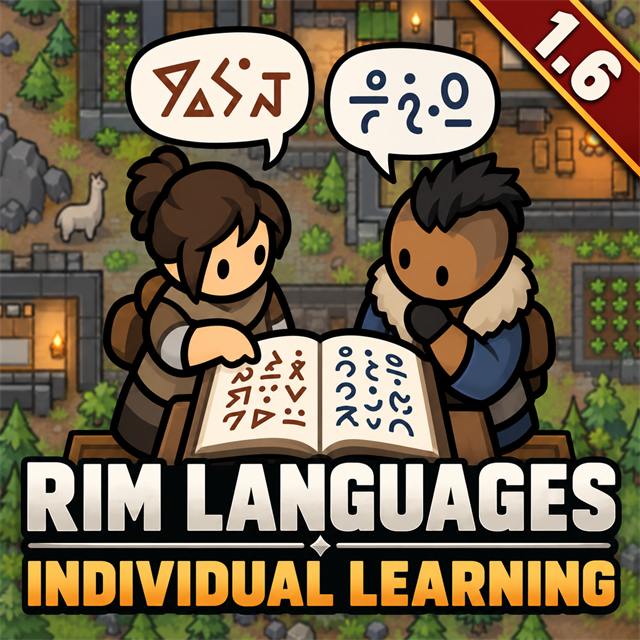
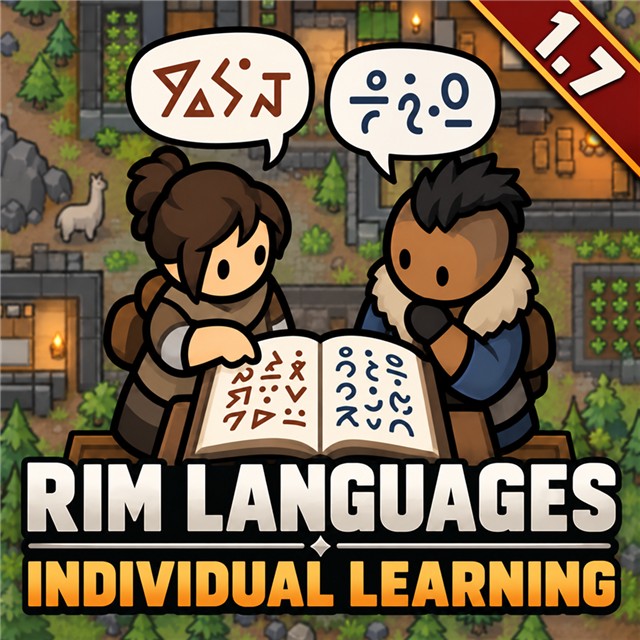
Update approved preview to RimWorld 1.7 and record Workshop update

diff --git a/docs/PROJECT_STATE.md b/docs/PROJECT_STATE.md
@@ -2,6 +2,12 @@
 
 ## Version actuelle
 
+L'utilisateur confirme ensuite la mise à jour du Workshop et autorise le push de la preview 1.7 et de ses documents. Publication Steam effectuée par l'utilisateur ; contenu distant non inspecté par l'agent. Version/DLL 1.1.2 et tag v1.1.2 conservés : cette consolidation est uniquement visuelle et documentaire, sans nouvelle release avec asset ni test moteur.
+
+Preview avec bandeau 1.7 validée par l'utilisateur (« L'image me va »). Copie projet et copie Mods déjà identiques ; aucune nouvelle modification d'image, compilation ou publication à cette validation.
+
+Retouche visuelle demandée après finalisation des sources : preview avec bandeau 1.7 générée depuis la preview existante avec imagegen, puis ramenée à 640 × 640. About/Preview.png : 866 745 octets, SHA256 54C8F9E78E2694D3F717D25157CD5364C00F5D1DEEFE1F1E21BF7A2BC87D7B01. Visuel inspecté, yeux et textes présents ; original 1.6 et génération haute résolution conservés sous artifacts/preview, exclus de Git. Copie Mods remplacée avec backup et comparaison SHA256. Aucun changement de DLL, version 1.1.2 ou support 1.6/1.7 ; aucun commit, tag ou envoi Workshop pour cette retouche.
+
 Sources 1.1.2 envoyées le 2026-10-22 : commit 8dd28e3af86d42ec8d2abc33383397063231e809 et tag annoté [v1.1.2](https://github.com/Diablood/RimLanguages-IndividualLearning/tree/v1.1.2). Références main et tag résolu vérifiées identiques par git ls-remote. Les fichiers de test locaux, binaires et sauvegardes sont exclus de Git. Copie Mods et identifiant 3817893569 vérifiés ; l'utilisateur peut mettre à jour l'article existant. Aucune release avec asset ni mise à jour Steam effectuée par l'agent.
 
 Finalisation demandée le 2026-10-22 : commit/push de toutes les modifications de ce lot et tag v1.1.2 ; mise à jour Workshop réservée à l'utilisateur. Descriptions et patchnotes 1.1.2 préparées. Reconstruction forcée réussie, DLL identique à celle testée (DD2B1F59A45CBE7BEB3D1FB1679BD9B2EF5FE55CD79E07A5142EF71D44C93847), 25 assertions d'origine réexécutées avec chacun des parents 1.6/1.7 et 18 assertions de transmission réussies ; suite complète toujours non réexécutée, limites inchangées. Aucune release GitHub avec asset incluse dans cette demande.

diff --git a/docs/WORKSHOP.md b/docs/WORKSHOP.md
@@ -1,5 +1,11 @@
 # Préparation Workshop — copie auteur locale
 
+Mise à jour de l'article Workshop confirmée par l'utilisateur après validation de la preview 1.7. Aucun envoi Steam par l'agent et aucun contrôle séparé du contenu distant. Le push demandé ensuite concerne l'image approuvée et les documents ; version 1.1.2 et tag existant conservés.
+
+Preview 1.7 approuvée par l'utilisateur ; la copie déjà présente dans Mods est prête pour son envoi manuel.
+
+Preview actuelle : bandeau 1.7, PNG 640 × 640, 866 745 octets, déjà copiée dans Mods et vérifiée par SHA256. Retouche visuelle seulement ; version 1.1.2 et support RimWorld 1.6/1.7 conservés. Aucun envoi Steam par l'agent. Les mentions du bandeau 1.6 plus bas décrivent les anciennes étapes.
+
 Copie auteur actuelle : 1.1.2, identifiant 3817893569 restauré via deploy.ps1 -IncludePublishedFileId. Nouveaux arrivants sans faction validés en jeu par utilisateur. Sources finalisées : commit 8dd28e3 et tag v1.1.2 envoyés et vérifiés ; l'utilisateur effectuera la mise à jour Steam. Descriptions FR/EN actualisées, [patchnotes 1.1.2](workshop/Patchnotes-1.1.2.txt) prêtes. Aucun envoi Steam par l'agent.
 
 Lot 1.1.0 préparé le 2026-10-19 : écoute passive, transmission maternelle, test Mendez et sauvegarde/rechargement validés par utilisateur. La restriction des connaissances acquises est couverte par les tests ciblés et suivie pendant les parties ; aucune session prolongée dédiée demandée. Copie Mods déjà installée, DLL inchangée depuis le test. Descriptions FR/EN actualisées et [patchnotes 1.1.0](workshop/Patchnotes-1.1.0.txt) prêtes. Aucun envoi Steam pour ce lot par l'agent.

diff --git a/docs/TESTING.md b/docs/TESTING.md
@@ -1,5 +1,13 @@
 # Vérifications — version locale 1.1.2
 
+## Preview 1.7
+
+L'utilisateur confirme la mise à jour Workshop puis demande le push. Cette confirmation est la preuve de son envoi manuel, pas d'une inspection distante par l'agent. Contrôles de cette consolidation limités au visuel, poids, SHA256, documents et diff ; aucune reconstruction ou nouvelle validation de gameplay nécessaire.
+
+Validation visuelle utilisateur reçue : « L'image me va ». Aucun nouveau test moteur ou envoi distant ; l'image approuvée est celle déjà copiée dans Mods.
+
+Retouche via imagegen depuis la preview précédente ; export PNG 640 × 640 inspecté visuellement : bandeau 1.7, yeux et titres conservés. 866 745 octets, sous le plafond du projet de 1 000 000 octets. SHA256 54C8F9E78E2694D3F717D25157CD5364C00F5D1DEEFE1F1E21BF7A2BC87D7B01. Copie Mods identique par SHA256 ; images antérieures sauvegardées sous artifacts/preview. Pas de reconstruction, test de gameplay ou publication pour une retouche de visuel. Le résultat génératif n'est pas une garantie d'identité pixel par pixel hors texte.
+
 ## Repli individuel général — 2026-10-22
 
 Envoi GitHub vérifié : commit 8dd28e3 et tag v1.1.2 poussés, tag annoté résolu vers le même commit par git ls-remote. Diff indexé sans erreur d'espacement, textes UTF-8 valides, aucun artefact local ou binaire tiers indexé. Dix fichiers de la copie auteur Mods comparés aux sources par SHA256, dont PublishedFileId 3817893569. Aucun envoi Steam et aucune release avec asset.

diff --git a/docs/ROADMAP.md b/docs/ROADMAP.md
@@ -4,6 +4,8 @@ Lot actuel : repli individuel général pour les humanoïdes sans origine lingui
 
 ## Historique récent
 
+Workshop mis à jour par l'utilisateur après validation de la preview 1.7. Push de l'image et des documents autorisé ensuite ; version 1.1.2 et tag v1.1.2 conservés. Suite : maintenance selon les retours, sans nouveau parcours acquis à refaire.
+
 Finalisation des sources 1.1.2 effectuée : commit 8dd28e3 et tag v1.1.2 envoyés et vérifiés sur GitHub. Suite : mise à jour de l'article Workshop existant par l'utilisateur ; copie Mods et patchnotes 1.1.2 prêtes, aucun envoi Steam par l'agent.
 
 Finalisation 1.1.2 autorisée : commit, push et tag v1.1.2. Patchnotes et descriptions Workshop FR/EN actualisées ; envoi Steam par l'utilisateur après finalisation GitHub. Aucune release avec asset demandée à cette étape.
